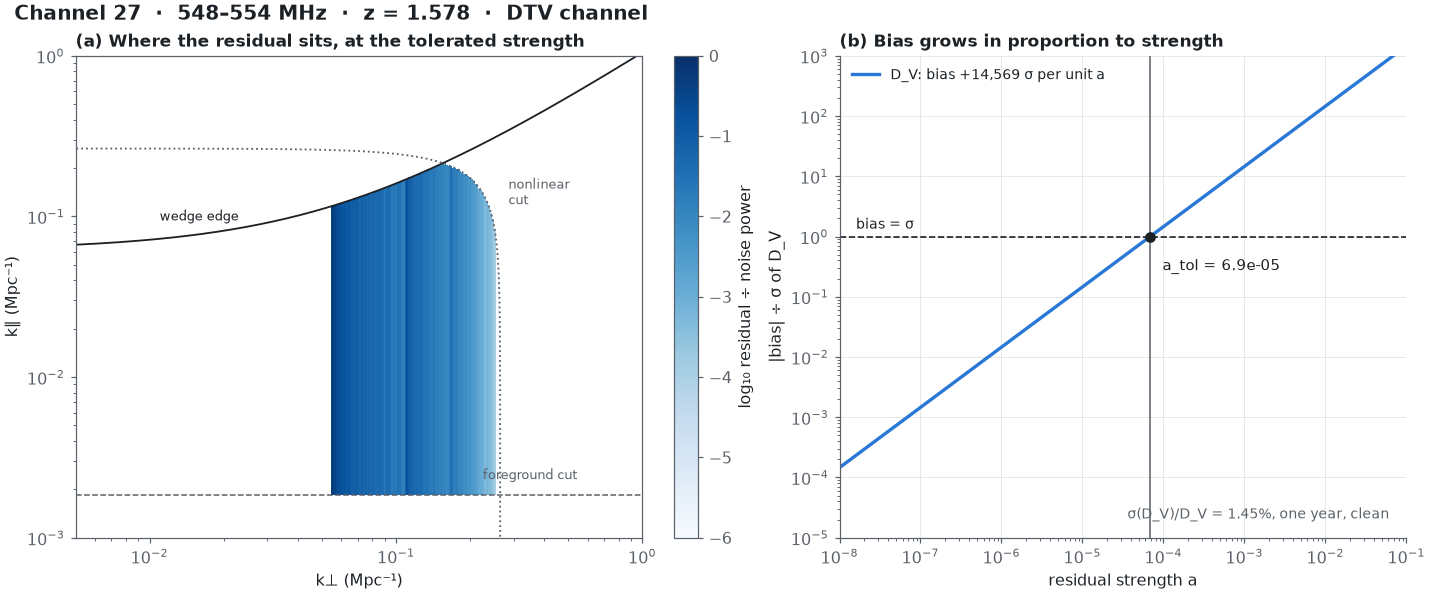
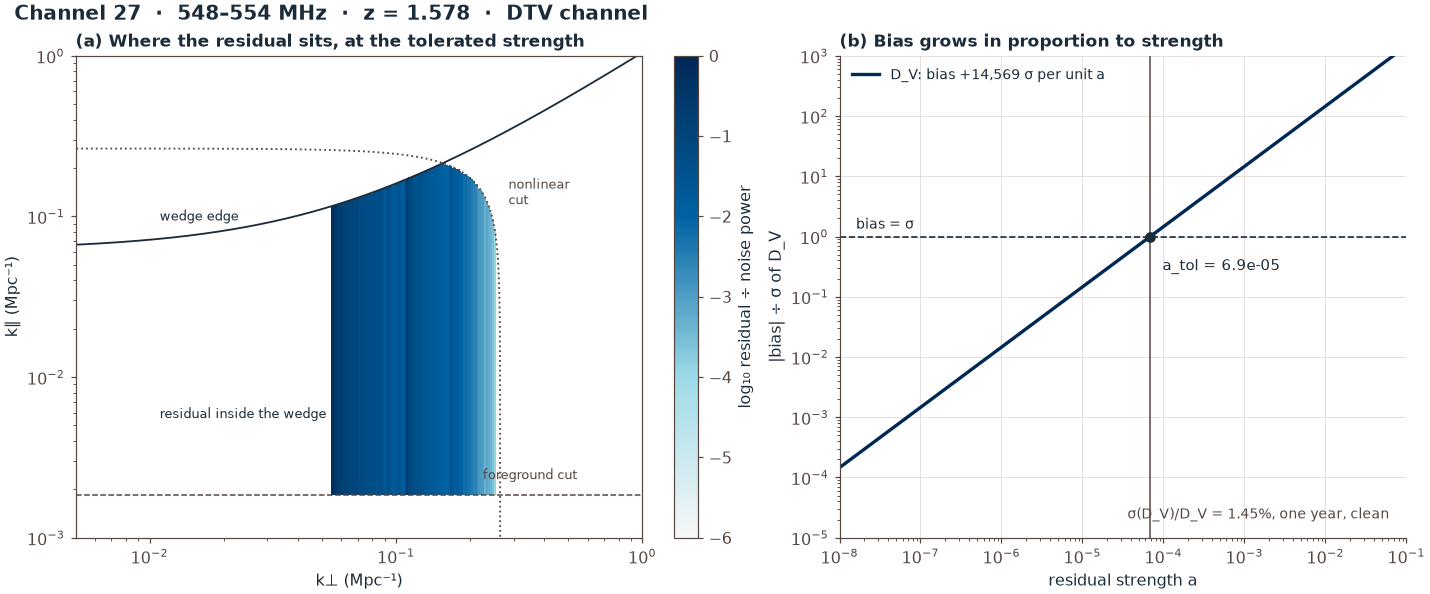
Use the WVU palette for figures and diagrams (#33)

diff --git a/tools/generate_call_graph.py b/tools/generate_call_graph.py
@@ -1,8 +1,12 @@
 """Draw docs/rfisher_functions.svg: RFIsher at function level, and where RadioFisher and the DTV model enter."""
 from pathlib import Path
 
-INK, MUTED, SURF, BG = "#1c2126", "#5a6168", "#ffffff", "#f6f7f5"
-AMBER, AMBERBG, BLUE, BLUEBG = "#9a5a00", "#fff4e0", "#1f5fa8", "#eef4fb"
+from rfisher import wvu_palette as wvu
+
+INK, MUTED, SURF, BG = wvu.INK, wvu.MUTED, wvu.WHITE, wvu.NOT_QUITE_WHITE
+MODEL, MODEL_BG = wvu.MODEL, wvu.tint(wvu.MODEL)
+BLUE, BLUEBG = wvu.MEASURED, wvu.tint(wvu.MEASURED)
+
 MONO = "DejaVu Sans Mono, monospace"
 
 
@@ -34,10 +38,10 @@ s = [(f'<svg xmlns="http://www.w3.org/2000/svg" viewBox="0 0 {W} {H}" font-famil
      'aria-label="RFIsher call graph: fixed inputs, the per-channel forecast with the DTV residual, the tolerance and the table">'),
      ("<defs>" + "".join(
          f'<marker id="{i}" viewBox="0 0 10 10" refX="9" refY="5" markerWidth="7" markerHeight="7" orient="auto">'
-         f'<path d="M0,0 L10,5 L0,10 z" fill="{c}"/></marker>' for i, c in (("a", INK), ("b", AMBER), ("c", BLUE), ("m", MUTED)))
+         f'<path d="M0,0 L10,5 L0,10 z" fill="{c}"/></marker>' for i, c in (("a", INK), ("b", MODEL), ("c", BLUE), ("m", MUTED)))
      + "</defs>"), f'<rect width="{W}" height="{H}" fill="{BG}"/>',
      text(24, 34, "RFIsher: one tolerance per 6 MHz channel", 19, INK, "600"),
-     text(24, 56, "Every function, run once per channel. Blue boxes call RadioFisher; the amber box is the DTV model.", 13)]
+     text(24, 56, "Every function, run once per channel. Blue boxes call RadioFisher; the gold box is the DTV model.", 13)]
 
 # fixed inputs
 s.append(text(24, 88, "FIXED INPUTS  (bands.py, inputs.py)", 12, MUTED, "600"))
@@ -67,8 +71,8 @@ s.append(box(664, 306, 592, 156, "residual.coherent_shelf: the DTV model", [
     "inside the wedge |k_par| <= m k_perp + pi / L, else 0",
     "N_nu = 15.4 channels; N_meas = baselines per Fourier cell;",
     "f_w = pi / (L k_w) spreads one mode over the wedge;",
-    "unit strength a = 1 (bias is proportional to a)"], stroke=AMBER, sw=2.2, fill=AMBERBG, tcol=AMBER))
-s.append(arrow(662, 420, 646, 420, AMBER, "b"))
+    "unit strength a = 1 (bias is proportional to a)"], stroke=MODEL, sw=2.2, fill=MODEL_BG, tcol=MODEL))
+s.append(arrow(662, 420, 646, 420, MODEL, "b"))
 s.append(arrow(344, 462, 344, 484))
 
 s.append(box(44, 486, 1212, 118, "2  forecast.integrate(p)", [

diff --git a/src/rfisher/wvu_palette.py b/src/rfisher/wvu_palette.py
@@ -1,0 +1,75 @@
+"""Generated from wvu_beamer_template/styles/beamercolorthemewvu.sty.
+
+Standalone copy; update with tools/export_plot_palette.py in that repository.
+"""
+
+BLUE = "#002855"
+GOLD = "#EEAA00"
+STAR_CITY_BLUE = "#9DDAE6"
+SAFETY_BLUE = "#0062A3"
+CANARY = "#F7DD63"
+SUNSET = "#F58672"
+WOODBURN = "#8D4638"
+HEMLOCK = "#6A724F"
+WILD_FLOUR = "#F2E6C2"
+BUCKSKIN = "#B3A169"
+OLD_GOLD = "#7F6310"
+RATTLER_GRAY = "#554741"
+NOT_QUITE_WHITE = "#F7F7F7"
+COOPERS_GRAY = "#BEB7B3"
+SENECA_GRAY = "#988E8B"
+COAL = "#1C2B39"
+
+# White and black remain available for paper backgrounds and binary masks.
+WHITE = "#FFFFFF"
+BLACK = "#000000"
+MEASURED = BLUE
+MODEL = OLD_GOLD
+CONDITIONAL = HEMLOCK
+FAILURE = WOODBURN
+PENDING = SENECA_GRAY
+INK = COAL
+MUTED = RATTLER_GRAY
+SERIES = (BLUE, OLD_GOLD, SAFETY_BLUE, WOODBURN, HEMLOCK, SUNSET, COAL, SENECA_GRAY)
+LINESTYLES = ("-", "--", "-.", ":", "--", "-.", ":", "-")
+MARKERS = ("o", "s", "^", "D", "v", "P", "X", "h")
+
+
+def tint(color, fraction=0.12):
+    """Mix a palette color with white; fraction is the color's contribution."""
+    if not 0 <= fraction <= 1:
+        raise ValueError("tint fraction must be between zero and one")
+    rgb = [int(color[i:i + 2], 16) for i in (1, 3, 5)]
+    return "#" + "".join(f"{round(255 + fraction * (c - 255)):02X}" for c in rgb)
+
+
+def sequential_cmap():
+    """White-to-blue intensity scale with monotonically decreasing lightness.
+
+    Missing values stay neutral gray. This map is for ordered values, not
+    categories or cyclic phase. Importing palette constants needs no Matplotlib.
+    """
+    from matplotlib.colors import LinearSegmentedColormap
+
+    cmap = LinearSegmentedColormap.from_list(
+        "wvu_blue", [NOT_QUITE_WHITE, STAR_CITY_BLUE, SAFETY_BLUE, BLUE], N=256
+    )
+    return cmap.with_extremes(bad=COOPERS_GRAY)
+
+
+def plot_rcparams():
+    """Color defaults only; leave journal fonts, dimensions, and ticks intact."""
+    from cycler import cycler
+
+    return {
+        "axes.prop_cycle": cycler(color=SERIES),
+        "axes.edgecolor": MUTED,
+        "axes.labelcolor": INK,
+        "text.color": INK,
+        "xtick.color": MUTED,
+        "ytick.color": MUTED,
+        "grid.color": tint(SENECA_GRAY, 0.3),
+        "figure.facecolor": WHITE,
+        "axes.facecolor": WHITE,
+        "savefig.facecolor": WHITE,
+    }

diff --git a/src/rfisher/figures.py b/src/rfisher/figures.py
@@ -14,14 +14,15 @@ import matplotlib.pyplot as plt
 import numpy as np
 
 from . import forecast, inputs, residual
+from . import wvu_palette as wvu
 from .bands import Band
 
-INK, MUTED, GRID, SURF = "#1c2126", "#5a6168", "#e4e6e2", "#ffffff"
-LINE = "#2a78d6"
-GRID_DARK = "#9aa0a6"
+INK, MUTED, GRID, SURF = wvu.INK, wvu.MUTED, wvu.tint(wvu.SENECA_GRAY, 0.3), wvu.WHITE
+LINE = wvu.BLUE
+GRID_DARK = wvu.SENECA_GRAY
 NU21 = 1420.406
 COSMOLOGY_LABELS = {"planck2018": "Planck 2018"}
-STYLE = {"font.size": 10.5, "axes.edgecolor": MUTED, "xtick.color": MUTED, "ytick.color": MUTED,
+STYLE = {**wvu.plot_rcparams(), "font.size": 10.5, "axes.edgecolor": MUTED, "xtick.color": MUTED, "ytick.color": MUTED,
          "axes.labelcolor": INK, "figure.facecolor": SURF, "axes.facecolor": SURF, "text.color": INK,
          "axes.titlesize": 11, "axes.titleweight": "bold", "axes.titlelocation": "left"}
 
@@ -50,7 +51,7 @@ def residual_map(ax, row, shared):
     ratio = np.where(np.hypot(KP, KL) > p["knl"], np.nan, ratio)
     ratio = np.where(KL < p["kfg"], np.nan, ratio)
     with np.errstate(divide="ignore"):
-        im = ax.pcolormesh(kperp, kpar, np.log10(ratio), cmap="Blues", vmin=-6, vmax=0, shading="auto")
+        im = ax.pcolormesh(kperp, kpar, np.log10(ratio), cmap=wvu.sequential_cmap().with_extremes(bad=(1, 1, 1, 0)), vmin=-6, vmax=0, shading="auto")
     ax.plot(kperp, residual.wedge_kpar(kperp, g), color=INK, lw=1.2)
     ax.axhline(p["kfg"], color=MUTED, ls="--", lw=1)
     t = np.linspace(0, np.pi / 2, 200)
@@ -58,7 +59,8 @@ def residual_map(ax, row, shared):
     ax.text(0.35, p["kfg"] * 1.25, "foreground cut", color=MUTED, fontsize=8.5, ha="center")
     ax.text(0.011, residual.wedge_kpar(0.011, g) * 1.3, "wedge edge", color=INK, fontsize=8.5)
     ax.text(p["knl"] * 1.08, p["knl"] * 0.45, "nonlinear\ncut", color=MUTED, fontsize=8.5)
-    ax.text(0.011, p["kfg"] * 3, "residual inside the wedge", color="white", fontsize=8.5)
+    ax.text(0.011, p["kfg"] * 3, "residual inside the wedge", color=INK, fontsize=8.5,
+            bbox={"facecolor": wvu.WHITE, "edgecolor": "none", "alpha": 0.9, "pad": 2})
     ax.set(xscale="log", yscale="log", xlim=(kperp[0], 1), ylim=(kpar[0], 1),
            xlabel="k⊥ (Mpc⁻¹)", ylabel="k∥ (Mpc⁻¹)",
            title="(a) Where the residual sits, at the tolerated strength")

diff --git a/README.md b/README.md
@@ -223,3 +223,14 @@ One test rebuilds channel 19 and checks it against the shipped table: σ to 1e-5
 responses to 1e-4 of the larger dilation response (other numpy and scipy builds differ by
 a few parts in a million, which D_V's partial cancellation magnifies). CI also rebuilds
 channels 14, 29 and 37 against RadioFisher at the pinned commit.
+
+### Figure colors
+
+Plots and diagrams use the WVU colors from the
+[Beamer template](https://github.com/WVURAIL/wvu_beamer_template), with a standalone
+copy in `src/rfisher/wvu_palette.py`. Update it with the template's
+`tools/export_plot_palette.py`. Blue denotes measurements; old gold provides
+contrast for model curves and small labels. Additional series use WVU accents
+and distinct markers or line styles where needed. Grayscale masks keep their
+binary meaning. Journal requirements take precedence; this palette does not
+change the numerical calculations or frozen records.
